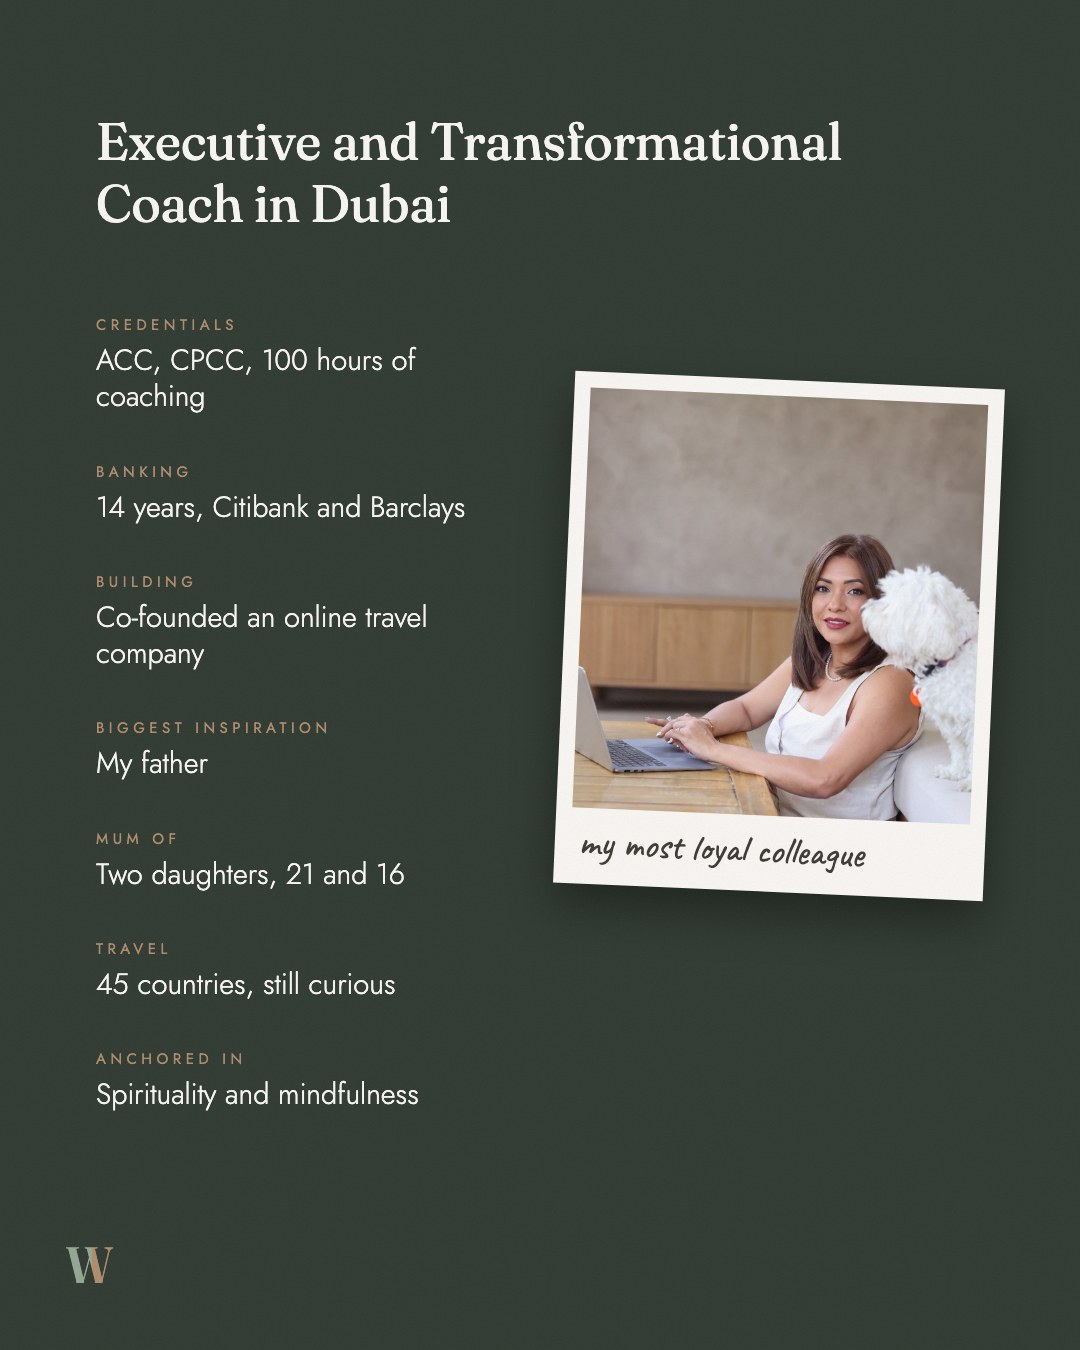
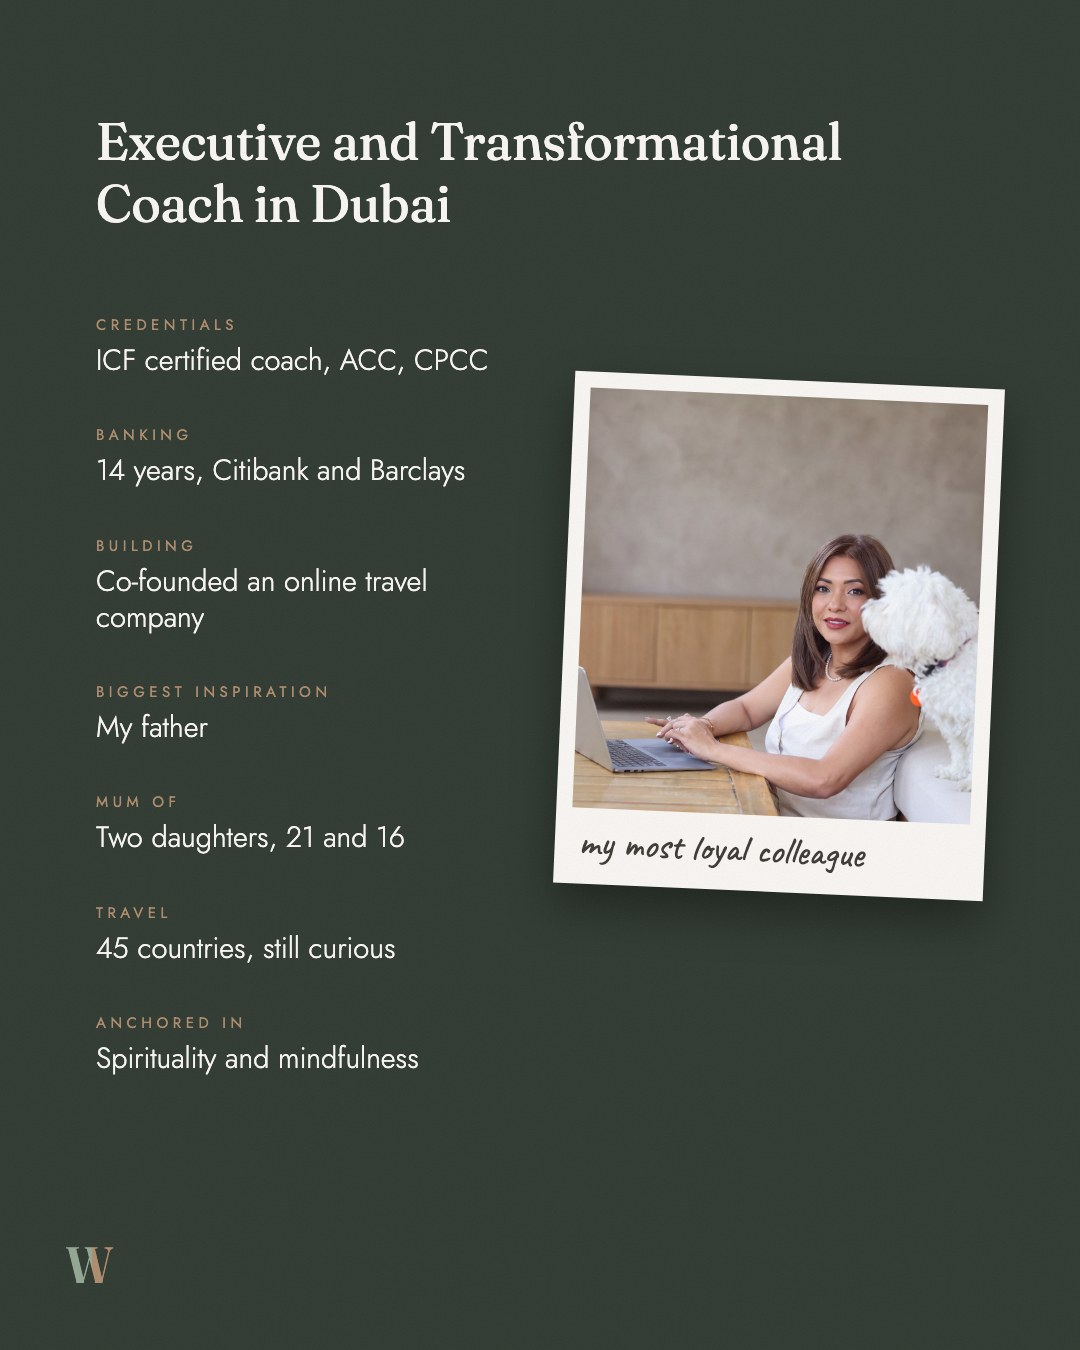
Megha's edits: ICF certified, no coaching hours, 'for others', better questions

Changed region(s): [[0.0917, 0.2489, 0.4583, 0.84], [0.2444, 0.6844, 0.3667, 0.7467], [0.275, 0.4978, 0.3056, 0.5289]]

diff --git a/content/index.html b/content/index.html
@@ -23,17 +23,17 @@
 <p class="eyebrow" style="margin-bottom:10px">01 &middot; About Megha<span class="rev">Revised 4 Nov</span></p>
 <div class="ig">
   <div class="ig-head"><img src="../assets/megha.jpg" alt=""><span><b>megha.withinworks</b><small>Dubai</small></span><span class="dots">&middot;&middot;&middot;</span></div>
-  <div class="ig-media"><div class="ig-track"><img src="../posts/c1-1a.jpg?v=1793797373" alt="" loading="lazy" width="1080" height="1350"><img src="../posts/c1-1b.jpg?v=1793798274" alt="" loading="lazy" width="1080" height="1350"><img src="../posts/c1-1c.jpg?v=1793797374" alt="" loading="lazy" width="1080" height="1350"></div><span class="ig-count">1/3</span><button class="ig-arrow prev" aria-label="Previous" hidden>&#8249;</button><button class="ig-arrow next" aria-label="Next">&#8250;</button></div>
+  <div class="ig-media"><div class="ig-track"><img src="../posts/c1-1a.jpg?v=1793808671" alt="" loading="lazy" width="1080" height="1350"><img src="../posts/c1-1b.jpg?v=1793808672" alt="" loading="lazy" width="1080" height="1350"><img src="../posts/c1-1c.jpg?v=1793808672" alt="" loading="lazy" width="1080" height="1350"></div><span class="ig-count">1/3</span><button class="ig-arrow prev" aria-label="Previous" hidden>&#8249;</button><button class="ig-arrow next" aria-label="Next">&#8250;</button></div>
   <div class="ig-bar"><svg viewBox="0 0 24 24" class=""><path d="M12 21s-7.5-4.6-9.3-9.2C1.4 8.4 3.6 5 7 5c2 0 3.4 1.1 5 3 1.6-1.9 3-3 5-3 3.4 0 5.6 3.4 4.3 6.8C19.5 16.4 12 21 12 21z"/></svg><svg viewBox="0 0 24 24" class=""><path d="M20.5 12a8.5 8.5 0 0 1-12.4 7.5L3.5 21l1.5-4.4A8.5 8.5 0 1 1 20.5 12z"/></svg><svg viewBox="0 0 24 24" class=""><path d="M22 3 9.2 10.1M22 3l-7 18-3.8-8.6L2 9.5 22 3z"/></svg><span class="ig-pips"><i></i><i></i><i></i></span><svg viewBox="0 0 24 24" class="save"><path d="M19 21l-7-5.2L5 21V3h14z"/></svg></div>
   <div class="ig-cap clip"><b>megha.withinworks</b>Hello, I’m Megha. A little of who I am, and why coaching matters so much to me. I’m glad you’re here.</div><button class="ig-more" type="button">more</button>
   <div class="ig-when"><span>Sample &middot; date to be set</span><div class="copyrow"><button class="copy" type="button" title="Copy caption" aria-label="Copy caption"><svg viewBox="0 0 24 24"><rect x="9" y="9" width="11" height="11" rx="2"/><path d="M5 15V6a2 2 0 0 1 2-2h9"/></svg></button><textarea class="cap-src" hidden>Hello, I’m Megha. A little of who I am, and why coaching matters so much to me. I’m glad you’re here.</textarea></div></div>
 </div>
 <div class="review post" data-id="c1-1" data-title="About Megha" style="background:none;border:0;padding:14px 0 0"></div>
 </article><article class="post-wrap" id="c1-2">
-<p class="eyebrow" style="margin-bottom:10px">02 &middot; Words in the world</p>
+<p class="eyebrow" style="margin-bottom:10px">02 &middot; Words in the world<span class="rev">Revised 4 Nov</span></p>
 <div class="ig">
   <div class="ig-head"><img src="../assets/megha.jpg" alt=""><span><b>megha.withinworks</b><small>Dubai</small></span><span class="dots">&middot;&middot;&middot;</span></div>
-  <div class="ig-media"><div class="ig-track"><img src="../posts/c1-2.jpg?v=1793551161" alt="" loading="lazy" width="1080" height="1350"></div></div>
+  <div class="ig-media"><div class="ig-track"><img src="../posts/c1-2.jpg?v=1793808680" alt="" loading="lazy" width="1080" height="1350"></div></div>
   <div class="ig-bar"><svg viewBox="0 0 24 24" class=""><path d="M12 21s-7.5-4.6-9.3-9.2C1.4 8.4 3.6 5 7 5c2 0 3.4 1.1 5 3 1.6-1.9 3-3 5-3 3.4 0 5.6 3.4 4.3 6.8C19.5 16.4 12 21 12 21z"/></svg><svg viewBox="0 0 24 24" class=""><path d="M20.5 12a8.5 8.5 0 0 1-12.4 7.5L3.5 21l1.5-4.4A8.5 8.5 0 1 1 20.5 12z"/></svg><svg viewBox="0 0 24 24" class=""><path d="M22 3 9.2 10.1M22 3l-7 18-3.8-8.6L2 9.5 22 3z"/></svg><svg viewBox="0 0 24 24" class="save"><path d="M19 21l-7-5.2L5 21V3h14z"/></svg></div>
   <div class="ig-cap clip"><b>megha.withinworks</b>If I could put one line on every bus stop in Dubai, it would be this one.</div><button class="ig-more" type="button">more</button>
   <div class="ig-when"><span>Sample &middot; date to be set</span><div class="copyrow"><button class="copy" type="button" title="Copy caption" aria-label="Copy caption"><svg viewBox="0 0 24 24"><rect x="9" y="9" width="11" height="11" rx="2"/><path d="M5 15V6a2 2 0 0 1 2-2h9"/></svg></button><textarea class="cap-src" hidden>If I could put one line on every bus stop in Dubai, it would be this one.</textarea></div></div>
@@ -67,7 +67,7 @@ Not sure which one you need? Ask me. I’ll tell you honestly, even if it isn’
 <p class="eyebrow" style="margin-bottom:10px">05 &middot; How coaching works</p>
 <div class="ig">
   <div class="ig-head"><img src="../assets/megha.jpg" alt=""><span><b>megha.withinworks</b><small>Dubai</small></span><span class="dots">&middot;&middot;&middot;</span></div>
-  <div class="ig-media"><div class="ig-track"><img src="../posts/c1-11a.jpg?v=1793797375" alt="" loading="lazy" width="1080" height="1350"><img src="../posts/c1-11b.jpg?v=1793797376" alt="" loading="lazy" width="1080" height="1350"><img src="../posts/c1-11c.jpg?v=1793797377" alt="" loading="lazy" width="1080" height="1350"></div><span class="ig-count">1/3</span><button class="ig-arrow prev" aria-label="Previous" hidden>&#8249;</button><button class="ig-arrow next" aria-label="Next">&#8250;</button></div>
+  <div class="ig-media"><div class="ig-track"><img src="../posts/c1-11a.jpg?v=1793808673" alt="" loading="lazy" width="1080" height="1350"><img src="../posts/c1-11b.jpg?v=1793808674" alt="" loading="lazy" width="1080" height="1350"><img src="../posts/c1-11c.jpg?v=1793808674" alt="" loading="lazy" width="1080" height="1350"></div><span class="ig-count">1/3</span><button class="ig-arrow prev" aria-label="Previous" hidden>&#8249;</button><button class="ig-arrow next" aria-label="Next">&#8250;</button></div>
   <div class="ig-bar"><svg viewBox="0 0 24 24" class=""><path d="M12 21s-7.5-4.6-9.3-9.2C1.4 8.4 3.6 5 7 5c2 0 3.4 1.1 5 3 1.6-1.9 3-3 5-3 3.4 0 5.6 3.4 4.3 6.8C19.5 16.4 12 21 12 21z"/></svg><svg viewBox="0 0 24 24" class=""><path d="M20.5 12a8.5 8.5 0 0 1-12.4 7.5L3.5 21l1.5-4.4A8.5 8.5 0 1 1 20.5 12z"/></svg><svg viewBox="0 0 24 24" class=""><path d="M22 3 9.2 10.1M22 3l-7 18-3.8-8.6L2 9.5 22 3z"/></svg><span class="ig-pips"><i></i><i></i><i></i></span><svg viewBox="0 0 24 24" class="save"><path d="M19 21l-7-5.2L5 21V3h14z"/></svg></div>
   <div class="ig-cap clip"><b>megha.withinworks</b>If you’ve wondered what coaching with me actually looks like, this is it.</div><button class="ig-more" type="button">more</button>
   <div class="ig-when"><span>Sample &middot; date to be set</span><div class="copyrow"><button class="copy" type="button" title="Copy caption" aria-label="Copy caption"><svg viewBox="0 0 24 24"><rect x="9" y="9" width="11" height="11" rx="2"/><path d="M5 15V6a2 2 0 0 1 2-2h9"/></svg></button><textarea class="cap-src" hidden>If you’ve wondered what coaching with me actually looks like, this is it.</textarea></div></div>
@@ -97,7 +97,7 @@ Not sure which one you need? Ask me. I’ll tell you honestly, even if it isn’
 <p class="eyebrow" style="margin-bottom:10px">08 &middot; The new role starter pack</p>
 <div class="ig">
   <div class="ig-head"><img src="../assets/megha.jpg" alt=""><span><b>megha.withinworks</b><small>Dubai</small></span><span class="dots">&middot;&middot;&middot;</span></div>
-  <div class="ig-media"><div class="ig-track"><img src="../posts/c1-13.jpg?v=1793797378" alt="" loading="lazy" width="1080" height="1350"></div></div>
+  <div class="ig-media"><div class="ig-track"><img src="../posts/c1-13.jpg?v=1793808676" alt="" loading="lazy" width="1080" height="1350"></div></div>
   <div class="ig-bar"><svg viewBox="0 0 24 24" class=""><path d="M12 21s-7.5-4.6-9.3-9.2C1.4 8.4 3.6 5 7 5c2 0 3.4 1.1 5 3 1.6-1.9 3-3 5-3 3.4 0 5.6 3.4 4.3 6.8C19.5 16.4 12 21 12 21z"/></svg><svg viewBox="0 0 24 24" class=""><path d="M20.5 12a8.5 8.5 0 0 1-12.4 7.5L3.5 21l1.5-4.4A8.5 8.5 0 1 1 20.5 12z"/></svg><svg viewBox="0 0 24 24" class=""><path d="M22 3 9.2 10.1M22 3l-7 18-3.8-8.6L2 9.5 22 3z"/></svg><svg viewBox="0 0 24 24" class="save"><path d="M19 21l-7-5.2L5 21V3h14z"/></svg></div>
   <div class="ig-cap clip"><b>megha.withinworks</b>Every new role comes with the pack. The piece that’s missing is the one coaching makes room for.</div><button class="ig-more" type="button">more</button>
   <div class="ig-when"><span>Sample &middot; date to be set</span><div class="copyrow"><button class="copy" type="button" title="Copy caption" aria-label="Copy caption"><svg viewBox="0 0 24 24"><rect x="9" y="9" width="11" height="11" rx="2"/><path d="M5 15V6a2 2 0 0 1 2-2h9"/></svg></button><textarea class="cap-src" hidden>Every new role comes with the pack. The piece that’s missing is the one coaching makes room for.</textarea></div></div>
@@ -117,7 +117,7 @@ Not sure which one you need? Ask me. I’ll tell you honestly, even if it isn’
 <p class="eyebrow" style="margin-bottom:10px">10 &middot; Inside a session</p>
 <div class="ig">
   <div class="ig-head"><img src="../assets/megha.jpg" alt=""><span><b>megha.withinworks</b><small>Dubai</small></span><span class="dots">&middot;&middot;&middot;</span></div>
-  <div class="ig-media"><div class="ig-track"><img src="../posts/c1-15a.jpg?v=1793797379" alt="" loading="lazy" width="1080" height="1350"><img src="../posts/c1-15b.jpg?v=1793797380" alt="" loading="lazy" width="1080" height="1350"></div><span class="ig-count">1/2</span><button class="ig-arrow prev" aria-label="Previous" hidden>&#8249;</button><button class="ig-arrow next" aria-label="Next">&#8250;</button></div>
+  <div class="ig-media"><div class="ig-track"><img src="../posts/c1-15a.jpg?v=1793808677" alt="" loading="lazy" width="1080" height="1350"><img src="../posts/c1-15b.jpg?v=1793808678" alt="" loading="lazy" width="1080" height="1350"></div><span class="ig-count">1/2</span><button class="ig-arrow prev" aria-label="Previous" hidden>&#8249;</button><button class="ig-arrow next" aria-label="Next">&#8250;</button></div>
   <div class="ig-bar"><svg viewBox="0 0 24 24" class=""><path d="M12 21s-7.5-4.6-9.3-9.2C1.4 8.4 3.6 5 7 5c2 0 3.4 1.1 5 3 1.6-1.9 3-3 5-3 3.4 0 5.6 3.4 4.3 6.8C19.5 16.4 12 21 12 21z"/></svg><svg viewBox="0 0 24 24" class=""><path d="M20.5 12a8.5 8.5 0 0 1-12.4 7.5L3.5 21l1.5-4.4A8.5 8.5 0 1 1 20.5 12z"/></svg><svg viewBox="0 0 24 24" class=""><path d="M22 3 9.2 10.1M22 3l-7 18-3.8-8.6L2 9.5 22 3z"/></svg><span class="ig-pips"><i></i><i></i></span><svg viewBox="0 0 24 24" class="save"><path d="M19 21l-7-5.2L5 21V3h14z"/></svg></div>
   <div class="ig-cap clip"><b>megha.withinworks</b>People often ask what actually happens in a session. It’s quieter than you’d think.</div><button class="ig-more" type="button">more</button>
   <div class="ig-when"><span>Sample &middot; date to be set</span><div class="copyrow"><button class="copy" type="button" title="Copy caption" aria-label="Copy caption"><svg viewBox="0 0 24 24"><rect x="9" y="9" width="11" height="11" rx="2"/><path d="M5 15V6a2 2 0 0 1 2-2h9"/></svg></button><textarea class="cap-src" hidden>People often ask what actually happens in a session. It’s quieter than you’d think.</textarea></div></div>
@@ -137,7 +137,7 @@ Not sure which one you need? Ask me. I’ll tell you honestly, even if it isn’
 <p class="eyebrow" style="margin-bottom:10px">12 &middot; Three people in the room</p>
 <div class="ig">
   <div class="ig-head"><img src="../assets/megha.jpg" alt=""><span><b>megha.withinworks</b><small>Dubai</small></span><span class="dots">&middot;&middot;&middot;</span></div>
-  <div class="ig-media"><div class="ig-track"><img src="../posts/c1-12a.jpg?v=1793797377" alt="" loading="lazy" width="1080" height="1350"><img src="../posts/c1-12b.jpg?v=1793797378" alt="" loading="lazy" width="1080" height="1350"></div><span class="ig-count">1/2</span><button class="ig-arrow prev" aria-label="Previous" hidden>&#8249;</button><button class="ig-arrow next" aria-label="Next">&#8250;</button></div>
+  <div class="ig-media"><div class="ig-track"><img src="../posts/c1-12a.jpg?v=1793808675" alt="" loading="lazy" width="1080" height="1350"><img src="../posts/c1-12b.jpg?v=1793808676" alt="" loading="lazy" width="1080" height="1350"></div><span class="ig-count">1/2</span><button class="ig-arrow prev" aria-label="Previous" hidden>&#8249;</button><button class="ig-arrow next" aria-label="Next">&#8250;</button></div>
   <div class="ig-bar"><svg viewBox="0 0 24 24" class=""><path d="M12 21s-7.5-4.6-9.3-9.2C1.4 8.4 3.6 5 7 5c2 0 3.4 1.1 5 3 1.6-1.9 3-3 5-3 3.4 0 5.6 3.4 4.3 6.8C19.5 16.4 12 21 12 21z"/></svg><svg viewBox="0 0 24 24" class=""><path d="M20.5 12a8.5 8.5 0 0 1-12.4 7.5L3.5 21l1.5-4.4A8.5 8.5 0 1 1 20.5 12z"/></svg><svg viewBox="0 0 24 24" class=""><path d="M22 3 9.2 10.1M22 3l-7 18-3.8-8.6L2 9.5 22 3z"/></svg><span class="ig-pips"><i></i><i></i></span><svg viewBox="0 0 24 24" class="save"><path d="M19 21l-7-5.2L5 21V3h14z"/></svg></div>
   <div class="ig-cap clip"><b>megha.withinworks</b>Company coaching works best when everyone knows their part. Yours matters most.</div><button class="ig-more" type="button">more</button>
   <div class="ig-when"><span>Sample &middot; date to be set</span><div class="copyrow"><button class="copy" type="button" title="Copy caption" aria-label="Copy caption"><svg viewBox="0 0 24 24"><rect x="9" y="9" width="11" height="11" rx="2"/><path d="M5 15V6a2 2 0 0 1 2-2h9"/></svg></button><textarea class="cap-src" hidden>Company coaching works best when everyone knows their part. Yours matters most.</textarea></div></div>
@@ -147,7 +147,7 @@ Not sure which one you need? Ask me. I’ll tell you honestly, even if it isn’
 <p class="eyebrow" style="margin-bottom:10px">13 &middot; The Within Question 02</p>
 <div class="ig">
   <div class="ig-head"><img src="../assets/megha.jpg" alt=""><span><b>megha.withinworks</b><small>Dubai</small></span><span class="dots">&middot;&middot;&middot;</span></div>
-  <div class="ig-media"><div class="ig-track"><img src="../posts/c1-14.jpg?v=1793797379" alt="" loading="lazy" width="1080" height="1350"></div></div>
+  <div class="ig-media"><div class="ig-track"><img src="../posts/c1-14.jpg?v=1793808677" alt="" loading="lazy" width="1080" height="1350"></div></div>
   <div class="ig-bar"><svg viewBox="0 0 24 24" class=""><path d="M12 21s-7.5-4.6-9.3-9.2C1.4 8.4 3.6 5 7 5c2 0 3.4 1.1 5 3 1.6-1.9 3-3 5-3 3.4 0 5.6 3.4 4.3 6.8C19.5 16.4 12 21 12 21z"/></svg><svg viewBox="0 0 24 24" class=""><path d="M20.5 12a8.5 8.5 0 0 1-12.4 7.5L3.5 21l1.5-4.4A8.5 8.5 0 1 1 20.5 12z"/></svg><svg viewBox="0 0 24 24" class=""><path d="M22 3 9.2 10.1M22 3l-7 18-3.8-8.6L2 9.5 22 3z"/></svg><svg viewBox="0 0 24 24" class="save"><path d="M19 21l-7-5.2L5 21V3h14z"/></svg></div>
   <div class="ig-cap clip"><b>megha.withinworks</b>The Within Question, 02. Sit with it this week.</div><button class="ig-more" type="button">more</button>
   <div class="ig-when"><span>Sample &middot; date to be set</span><div class="copyrow"><button class="copy" type="button" title="Copy caption" aria-label="Copy caption"><svg viewBox="0 0 24 24"><rect x="9" y="9" width="11" height="11" rx="2"/><path d="M5 15V6a2 2 0 0 1 2-2h9"/></svg></button><textarea class="cap-src" hidden>The Within Question, 02. Sit with it this week.</textarea></div></div>
@@ -157,7 +157,7 @@ Not sure which one you need? Ask me. I’ll tell you honestly, even if it isn’
 <p class="eyebrow" style="margin-bottom:10px">14 &middot; Turning points</p>
 <div class="ig">
   <div class="ig-head"><img src="../assets/megha.jpg" alt=""><span><b>megha.withinworks</b><small>Dubai</small></span><span class="dots">&middot;&middot;&middot;</span></div>
-  <div class="ig-media"><div class="ig-track"><img src="../posts/c1-16.jpg?v=1793797380" alt="" loading="lazy" width="1080" height="1350"></div></div>
+  <div class="ig-media"><div class="ig-track"><img src="../posts/c1-16.jpg?v=1793808678" alt="" loading="lazy" width="1080" height="1350"></div></div>
   <div class="ig-bar"><svg viewBox="0 0 24 24" class=""><path d="M12 21s-7.5-4.6-9.3-9.2C1.4 8.4 3.6 5 7 5c2 0 3.4 1.1 5 3 1.6-1.9 3-3 5-3 3.4 0 5.6 3.4 4.3 6.8C19.5 16.4 12 21 12 21z"/></svg><svg viewBox="0 0 24 24" class=""><path d="M20.5 12a8.5 8.5 0 0 1-12.4 7.5L3.5 21l1.5-4.4A8.5 8.5 0 1 1 20.5 12z"/></svg><svg viewBox="0 0 24 24" class=""><path d="M22 3 9.2 10.1M22 3l-7 18-3.8-8.6L2 9.5 22 3z"/></svg><svg viewBox="0 0 24 24" class="save"><path d="M19 21l-7-5.2L5 21V3h14z"/></svg></div>
   <div class="ig-cap clip"><b>megha.withinworks</b>For everyone who has started again somewhere new. What did you bring with you, and what did you leave behind?</div><button class="ig-more" type="button">more</button>
   <div class="ig-when"><span>Sample &middot; date to be set</span><div class="copyrow"><button class="copy" type="button" title="Copy caption" aria-label="Copy caption"><svg viewBox="0 0 24 24"><rect x="9" y="9" width="11" height="11" rx="2"/><path d="M5 15V6a2 2 0 0 1 2-2h9"/></svg></button><textarea class="cap-src" hidden>For everyone who has started again somewhere new. What did you bring with you, and what did you leave behind?</textarea></div></div>
@@ -167,7 +167,7 @@ Not sure which one you need? Ask me. I’ll tell you honestly, even if it isn’
 <p class="eyebrow" style="margin-bottom:10px">15 &middot; Notes from the mat</p>
 <div class="ig">
   <div class="ig-head"><img src="../assets/megha.jpg" alt=""><span><b>megha.withinworks</b><small>Dubai</small></span><span class="dots">&middot;&middot;&middot;</span></div>
-  <div class="ig-media"><div class="ig-track"><img src="../posts/c1-10.jpg?v=1793797375" alt="" loading="lazy" width="1080" height="1350"></div></div>
+  <div class="ig-media"><div class="ig-track"><img src="../posts/c1-10.jpg?v=1793808673" alt="" loading="lazy" width="1080" height="1350"></div></div>
   <div class="ig-bar"><svg viewBox="0 0 24 24" class=""><path d="M12 21s-7.5-4.6-9.3-9.2C1.4 8.4 3.6 5 7 5c2 0 3.4 1.1 5 3 1.6-1.9 3-3 5-3 3.4 0 5.6 3.4 4.3 6.8C19.5 16.4 12 21 12 21z"/></svg><svg viewBox="0 0 24 24" class=""><path d="M20.5 12a8.5 8.5 0 0 1-12.4 7.5L3.5 21l1.5-4.4A8.5 8.5 0 1 1 20.5 12z"/></svg><svg viewBox="0 0 24 24" class=""><path d="M22 3 9.2 10.1M22 3l-7 18-3.8-8.6L2 9.5 22 3z"/></svg><svg viewBox="0 0 24 24" class="save"><path d="M19 21l-7-5.2L5 21V3h14z"/></svg></div>
   <div class="ig-cap clip"><b>megha.withinworks</b>Yoga and meditation came long before coaching. They taught me the pause.</div><button class="ig-more" type="button">more</button>
   <div class="ig-when"><span>Sample &middot; date to be set</span><div class="copyrow"><button class="copy" type="button" title="Copy caption" aria-label="Copy caption"><svg viewBox="0 0 24 24"><rect x="9" y="9" width="11" height="11" rx="2"/><path d="M5 15V6a2 2 0 0 1 2-2h9"/></svg></button><textarea class="cap-src" hidden>Yoga and meditation came long before coaching. They taught me the pause.</textarea></div></div>

diff --git a/index.html b/index.html
@@ -20,7 +20,7 @@
 <a class="brand" href="./"><svg class="mark"><use href="#ww"/></svg><span><b>WithinWorks</b><small>The Brain</small></span></a>
 </div></header>
 <div class="shell">
-<a class="now" href="content/"><span><p class="eyebrow">Now &middot; Collection 1</p><h2>Fifteen posts across the themes</h2><small id="now-status">For Megha&rsquo;s review</small></span><span class="thumbs"><img src="posts/c1-1a.jpg?v=1793797373" alt=""><img src="posts/c1-2.jpg?v=1793551161" alt=""><img src="posts/c1-5a.jpg?v=1793551163" alt=""></span></a>
+<a class="now" href="content/"><span><p class="eyebrow">Now &middot; Collection 1</p><h2>Fifteen posts across the themes</h2><small id="now-status">For Megha&rsquo;s review</small></span><span class="thumbs"><img src="posts/c1-1a.jpg?v=1793808671" alt=""><img src="posts/c1-2.jpg?v=1793808680" alt=""><img src="posts/c1-5a.jpg?v=1793551163" alt=""></span></a>
 <nav class="menu"><a class="door tint" href="content/"><span><span class="n">01</span><h3>Instagram</h3><p>Collection 1: fifteen posts for approval</p></span><span class="go">&rarr;</span></a><a class="door" href="linkedin/"><span><span class="n">02</span><h3>LinkedIn</h3><p>Batch 1: text, pages, single post</p></span><span class="go">&rarr;</span></a><a class="door" href="stories/"><span><span class="n">03</span><h3>Stories</h3><p>Instagram stories for approval</p></span><span class="go">&rarr;</span></a><a class="door" href="reels.html"><span><span class="n">04</span><h3>Reels</h3><p>Reel strategy and ten scripts</p></span><span class="go">&rarr;</span></a><a class="door" href="strategy.html"><span><span class="n">05</span><h3>Strategy</h3><p>The plan for her brand</p></span><span class="go">&rarr;</span></a><a class="door" href="megha.html"><span><span class="n">06</span><h3>Megha</h3><p>Career, credentials, life</p></span><span class="go">&rarr;</span></a><a class="door" href="voice.html"><span><span class="n">07</span><h3>Voice</h3><p>Her words and her form answers</p></span><span class="go">&rarr;</span></a><a class="door" href="audience.html"><span><span class="n">08</span><h3>Audience</h3><p>Who she wants to work with</p></span><span class="go">&rarr;</span></a><a class="door" href="brand.html"><span><span class="n">09</span><h3>Brand</h3><p>Logo, colours, fonts</p></span><span class="go">&rarr;</span></a><a class="door" href="offers.html"><span><span class="n">10</span><h3>Offers</h3><p>Discovery call and three offers</p></span><span class="go">&rarr;</span></a><a class="door" href="tech.html"><span><span class="n">11</span><h3>Tech</h3><p>Website, hosting, tools</p></span><span class="go">&rarr;</span></a><a class="door" href="photos.html"><span><span class="n">12</span><h3>Photos</h3><p>Megha&rsquo;s photos, numbered</p></span><span class="go">&rarr;</span></a><a class="door" href="research.html"><span><span class="n">13</span><h3>Research</h3><p>Coaching, references, likes and dislikes</p></span><span class="go">&rarr;</span></a><a class="door" href="ideas.html"><span><span class="n">14</span><h3>Ideas</h3><p>Add an idea or a link</p></span><span class="go">&rarr;</span></a></nav>
 </div>
 
